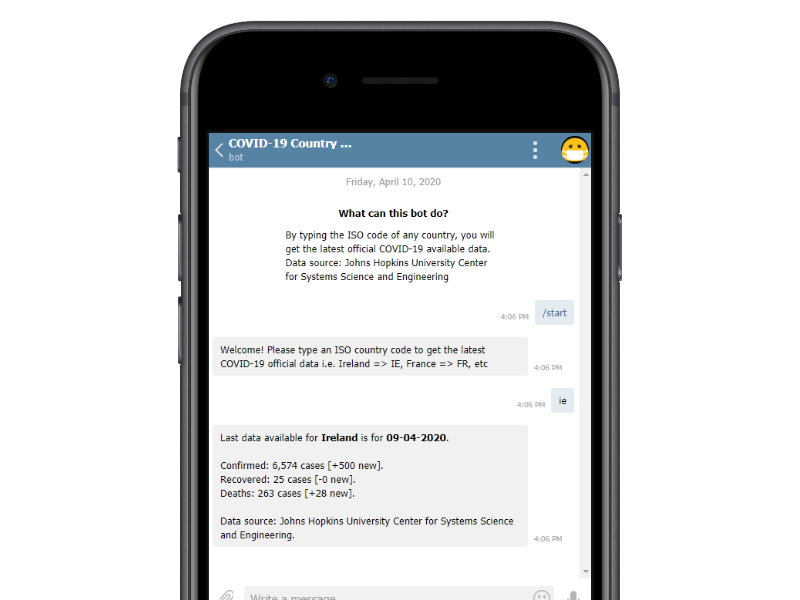
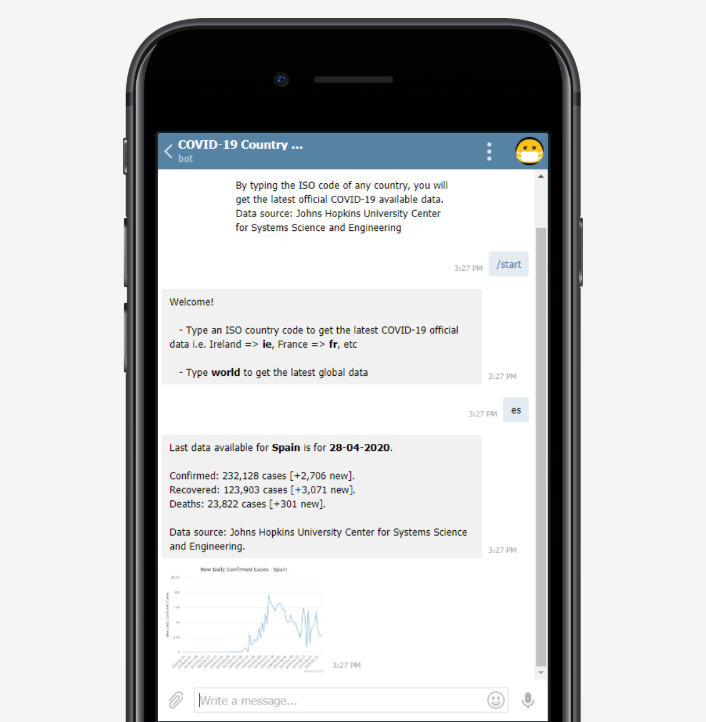
Add new images to telegram bot project and add skills

diff --git a/src/data/data.js b/src/data/data.js
@@ -32,8 +32,15 @@ export const data = [
         id: 2,
         name: 'COVID-19 Telegram Bot',
         description:
-            'Do you want to quickly check the official COVID-19 for a given country? Just type the ISO country code and you will get it instantly. For those of you who, like me, struggle to find accurate data in few clicks and mobile phone friendly.',
-        stack: ['Nodejs', 'Express', 'Telegram API', 'Heroku'],
+            'Do you want to quickly check the official COVID-19 for a given country? Just type the ISO country code and you will get it instantly. NEW: returns graph so you can check the trend in your country. For those of you who, like me, struggle to find accurate data in few clicks and mobile phone friendly.',
+        stack: [
+            'Nodejs',
+            'Express',
+            'Telegram API',
+            'Heroku',
+            'AWS',
+            'Highcharts'
+        ],
         srcMac: telegramPhone,
         src: telegram,
         github: 'https://github.com/petrussola/covid-country-data-telegram-bot',
@@ -64,7 +71,8 @@ export const skills = {
         'Jest',
         'Netlify',
         'Zeit',
-        'Stripe'
+        'Stripe',
+        'AWS'
     ],
     Backend: [
         'Nodejs',
@@ -78,7 +86,8 @@ export const skills = {
         'Travis-CI',
         'Continuous Integration',
         'Heroku',
-        'Stripe'
+        'Stripe',
+        'AWS'
     ],
     'Version Control': ['Git', 'GitHub']
 };
